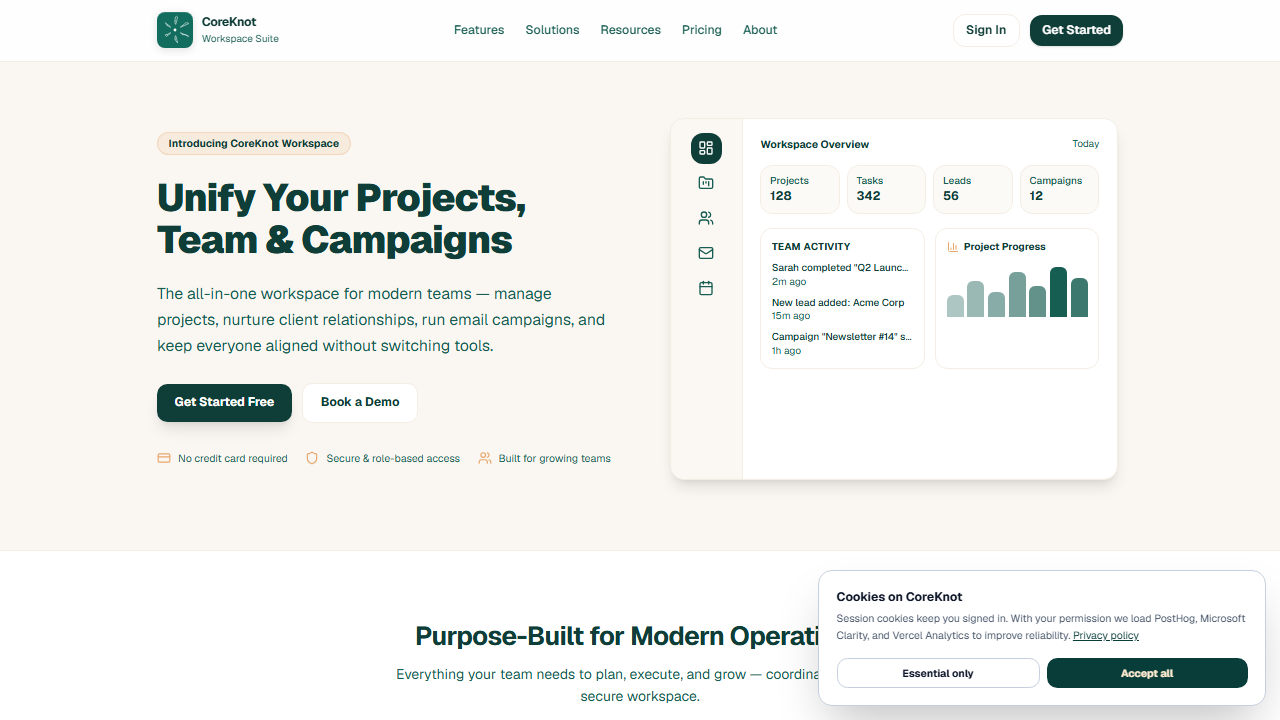
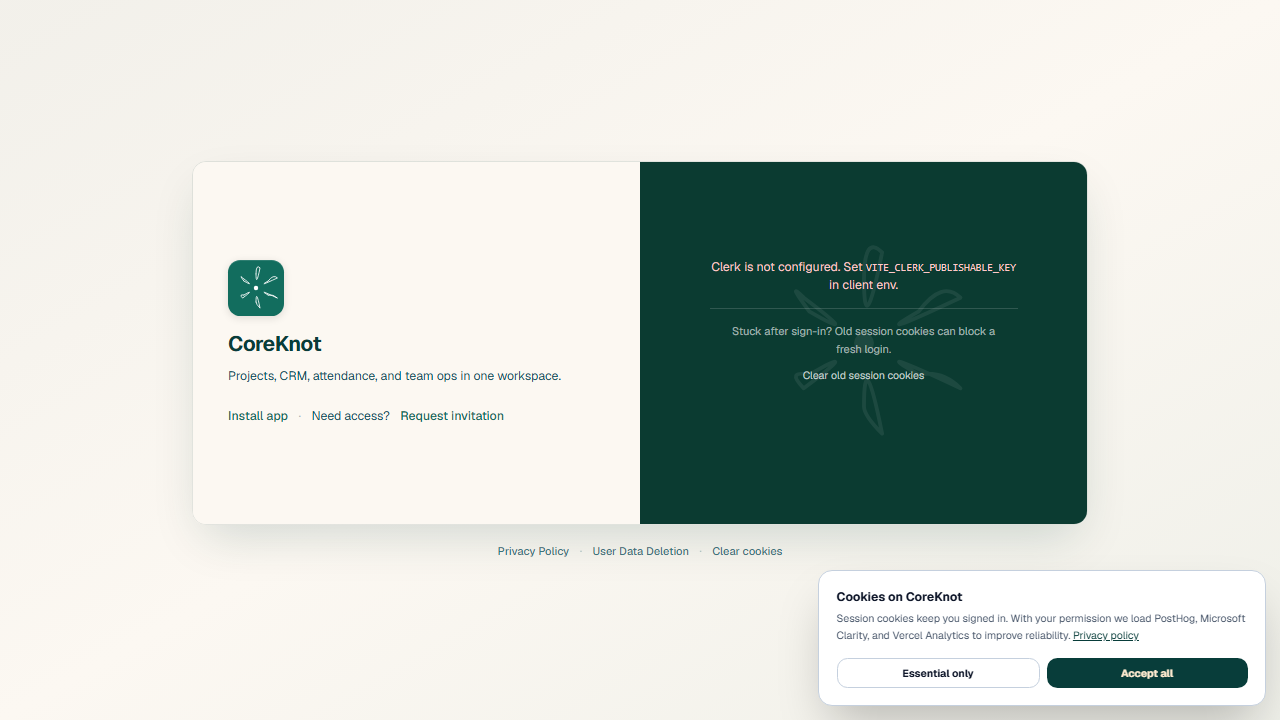
fix: restore beta release and CI checks

diff --git a/docs/reference/COREKNOT_MASTER.md b/docs/reference/COREKNOT_MASTER.md
@@ -1,7 +1,7 @@
 # CoreKnot — Master Reference
 
 > **Canonical product bible.** Every routed page, APIs, hooks, exports, and access rules.  
-> **Product:** CoreKnot · **Repo:** `coreknot/Taskmaster` · **Version:** 1.0.8-beta.3 · **Compiled:** 2026-07-17
+> **Product:** CoreKnot · **Repo:** `coreknot/Taskmaster` · **Version:** 1.0.8-beta.3 · **Compiled:** 2026-07-20
 
 ---
 
@@ -201,7 +201,7 @@ _Total page files: 142. Each entry lists route, exports, hooks, components, and 
 | --- | --- |
 | **Route(s)** | /forgot-password |
 | **Default export** | `function` |
-| **Lines** | 214 |
+| **Lines** | 221 |
 | **Hooks** | `useClerk`, `useMemo`, `useNavigate`, `useSignIn`, `useState` |
 | **Data hooks** | `useClerk` → /api/auth/clerk-establish, /api/tenants/memberships, /api/tenants/select |
 | **Key components** | `AuthMarketingShell` |
@@ -213,7 +213,7 @@ _No direct `/api/...` string literals — data via shared hooks (e.g. `useTaskma
 | --- | --- |
 | **Route(s)** | _embedded tab / child route_ |
 | **Default export** | `—` |
-| **Lines** | 144 |
+| **Lines** | 166 |
 
 _No direct `/api/...` string literals — data via shared hooks (e.g. `useTaskmasterQueries`) or parent hub._
 #### `Taskmaster/client/src/pages/auth/GoogleSuccessPage.jsx`
@@ -233,7 +233,7 @@ _No direct `/api/...` string literals — data via shared hooks (e.g. `useTaskma
 | --- | --- |
 | **Route(s)** | /login/* |
 | **Default export** | `function` |
-| **Lines** | 190 |
+| **Lines** | 193 |
 | **Hooks** | `useAuth`, `useClerkAuth`, `useEffect`, `useLocation`, `useMemo`, `useNavigate`, `useRef`, `useState` |
 | **Data hooks** | `useAuth` → /api/artists/${artistId}, /api/artists/${artistId}/claim, /api/artists/${artistId}/members · `useClerkAuth` → /api/auth/access-request, /api/auth/clerk-establish, /api/tenants/memberships |
 | **Key components** | `AppBootError`, `AuthMarketingShell`, `BootScreen`, `ClearSessionCookiesButton`, `ClerkSignInBlock`, `InstallGuideModal` |
@@ -292,7 +292,7 @@ _No direct `/api/...` string literals — data via shared hooks (e.g. `useTaskma
 | --- | --- |
 | **Route(s)** | _embedded tab / child route_ |
 | **Default export** | `—` |
-| **Lines** | 26 |
+| **Lines** | 27 |
 
 _No direct `/api/...` string literals — data via shared hooks (e.g. `useTaskmasterQueries`) or parent hub._
 #### `Taskmaster/client/src/pages/LandingPage.jsx`

diff --git a/.github/RELEASE_DRAFT_DESKTOP_BETA_1.0.8-beta.2.md b/.github/RELEASE_DRAFT_DESKTOP_BETA_1.0.8-beta.2.md
@@ -1,10 +1,10 @@
-# CoreKnot Desktop Beta 1.0.8-beta.2
+# CoreKnot Beta
 
 Beta desktop update for CoreKnot auth and downloads.
 
 ## Downloads
 
-- Windows: download `CoreKnot-Beta-1.0.8-beta.2-win-x64.exe` from this release.
+- Windows: download `CoreKnot-Beta-win-x64.exe` from this release.
 
 ## What Changed
 
@@ -14,4 +14,4 @@ Beta desktop update for CoreKnot auth and downloads.
 
 ## Update Notes
 
-Existing CoreKnot Desktop Beta users should see the beta update prompt after the app checks GitHub releases.
+Existing CoreKnot Beta users should see the beta update prompt after the app checks GitHub releases.

diff --git a/docs/operations/DESKTOP_BETA_RELEASE.md b/docs/operations/DESKTOP_BETA_RELEASE.md
@@ -6,7 +6,7 @@ arrive through GitHub beta releases and show an update dialog inside the desktop
 
 ## Install
 
-1. Open the latest GitHub prerelease named `CoreKnot Desktop Beta`.
+1. Open the latest GitHub prerelease named `CoreKnot Beta`.
 2. Download the installer for your OS:
    - Windows: `CoreKnot-Beta-win-x64.exe`
    - macOS: `CoreKnot-Beta-mac-*.dmg`
@@ -25,8 +25,8 @@ git commit -m "feat: package CoreKnot desktop beta"
 git push origin dev
 ```
 
-After the release commit is merged to `main`, `.github/workflows/desktop-beta-release.yml` creates tag
-the beta release tag, builds Windows/macOS/Linux packages, publishes a GitHub prerelease, and uploads update metadata
+After the release commit is merged to `main`, `.github/workflows/desktop-beta-release.yml` creates
+the beta release tag when needed, builds Windows/macOS/Linux packages, publishes a GitHub prerelease, and uploads update metadata
 for the `beta` channel.
 
 ## Update Behavior

diff --git a/CHANGELOG.md b/CHANGELOG.md
@@ -9,7 +9,7 @@ All notable CoreKnot releases. Version aligns with root `package.json`.
 - Fixed app-mode root and catch-all routing so users land on dashboard when signed in, or login when signed out.
 - Removed the in-app marketing landing page from the workspace host; marketing stays on the landing site only.
 - Fixed forgot-password access by linking login directly to the reset page and surfacing Clerk `authorization_invalid` details with trace IDs.
-- Updated desktop beta download links to the `v1.0.8-beta.3` GitHub release assets.
+- Updated desktop beta download links to the `CoreKnot Beta` GitHub release assets.
 
 ## [1.0.8-beta.1] - 2026-07-15
 
@@ -38,4 +38,4 @@ All notable CoreKnot releases. Version aligns with root `package.json`.
 
 [1.0.7]: https://github.com/theshakticollective/coreknot/compare/v1.0.6...v1.0.7
 [1.0.8-beta.1]: https://github.com/theshakticollective/coreknot/compare/v1.0.7...v1.0.8-beta.1
-[1.0.8-beta.3]: https://github.com/RaghavSobti37/Taskmaster/releases/tag/v1.0.8-beta.3
+[1.0.8-beta.3]: https://github.com/theshakticollective/coreknot/releases/tag/v1.0.8-beta.3

diff --git a/docs/reference/VERSION_HISTORY.md b/docs/reference/VERSION_HISTORY.md
@@ -16,8 +16,8 @@ Release notes for CoreKnot (CoreKnot). For setup and architecture, see [README.m
 - **Clerk session establish:** frontend token-read failures with `authorization_invalid` are treated as terminal auth errors instead of retry loops.
 
 #### Landing download
-- **Desktop beta links:** landing page installer buttons now target `v1.0.8-beta.3` GitHub release assets.
-- **Hero CTA:** desktop beta CTA now opens the `v1.0.8-beta.3` release page.
+- **Desktop beta links:** landing page installer buttons now target versionless `CoreKnot Beta` setup files on the GitHub beta release.
+- **Hero CTA:** desktop beta CTA now opens the latest `CoreKnot Beta` release page.
 
 ---
 

diff --git a/.github/RELEASE_DRAFT_DESKTOP_BETA_1.0.8-beta.1.md b/.github/RELEASE_DRAFT_DESKTOP_BETA_1.0.8-beta.1.md
@@ -1,4 +1,4 @@
-# CoreKnot Desktop Beta 1.0.8-beta.1
+# CoreKnot Beta
 
 Beta desktop installers for CoreKnot.
 

diff --git a/.specify/memory/INDEX.md b/.specify/memory/INDEX.md
@@ -5,4 +5,4 @@ This tree remains for backward compatibility only.
 - Canonical memory now lives in: `memory/obsidian/INDEX.md` (TSC Platform root; junction at `coreknot/Taskmaster/memory/obsidian`)
 - Legacy files should not be extended with new canonical content.
 
-Last synced: 2026-07-17
+Last synced: 2026-07-20